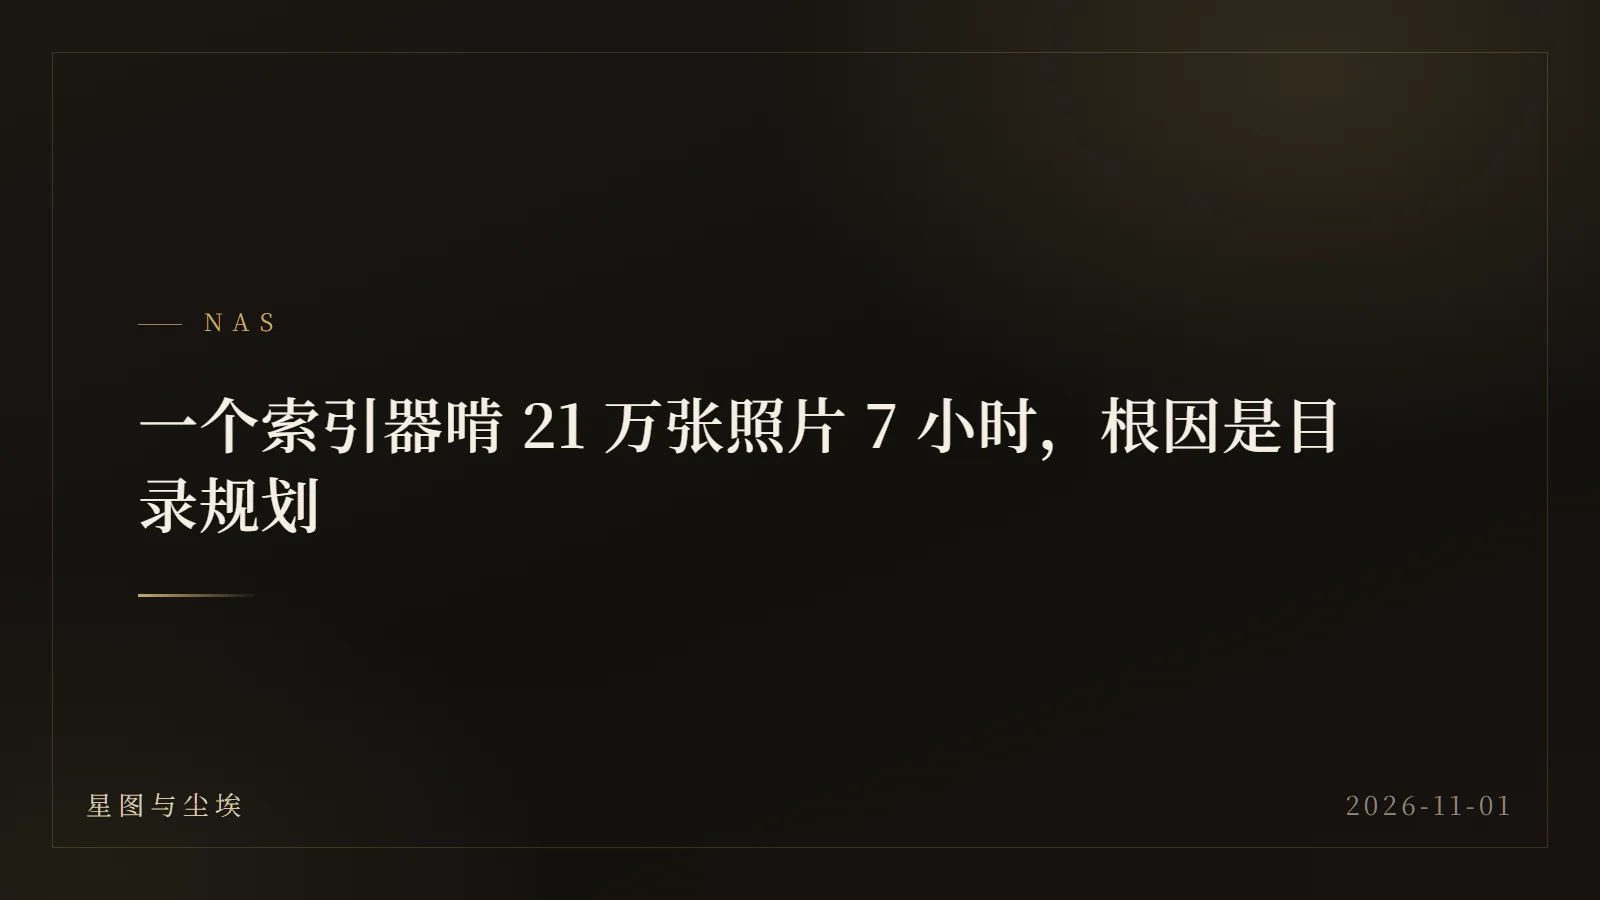
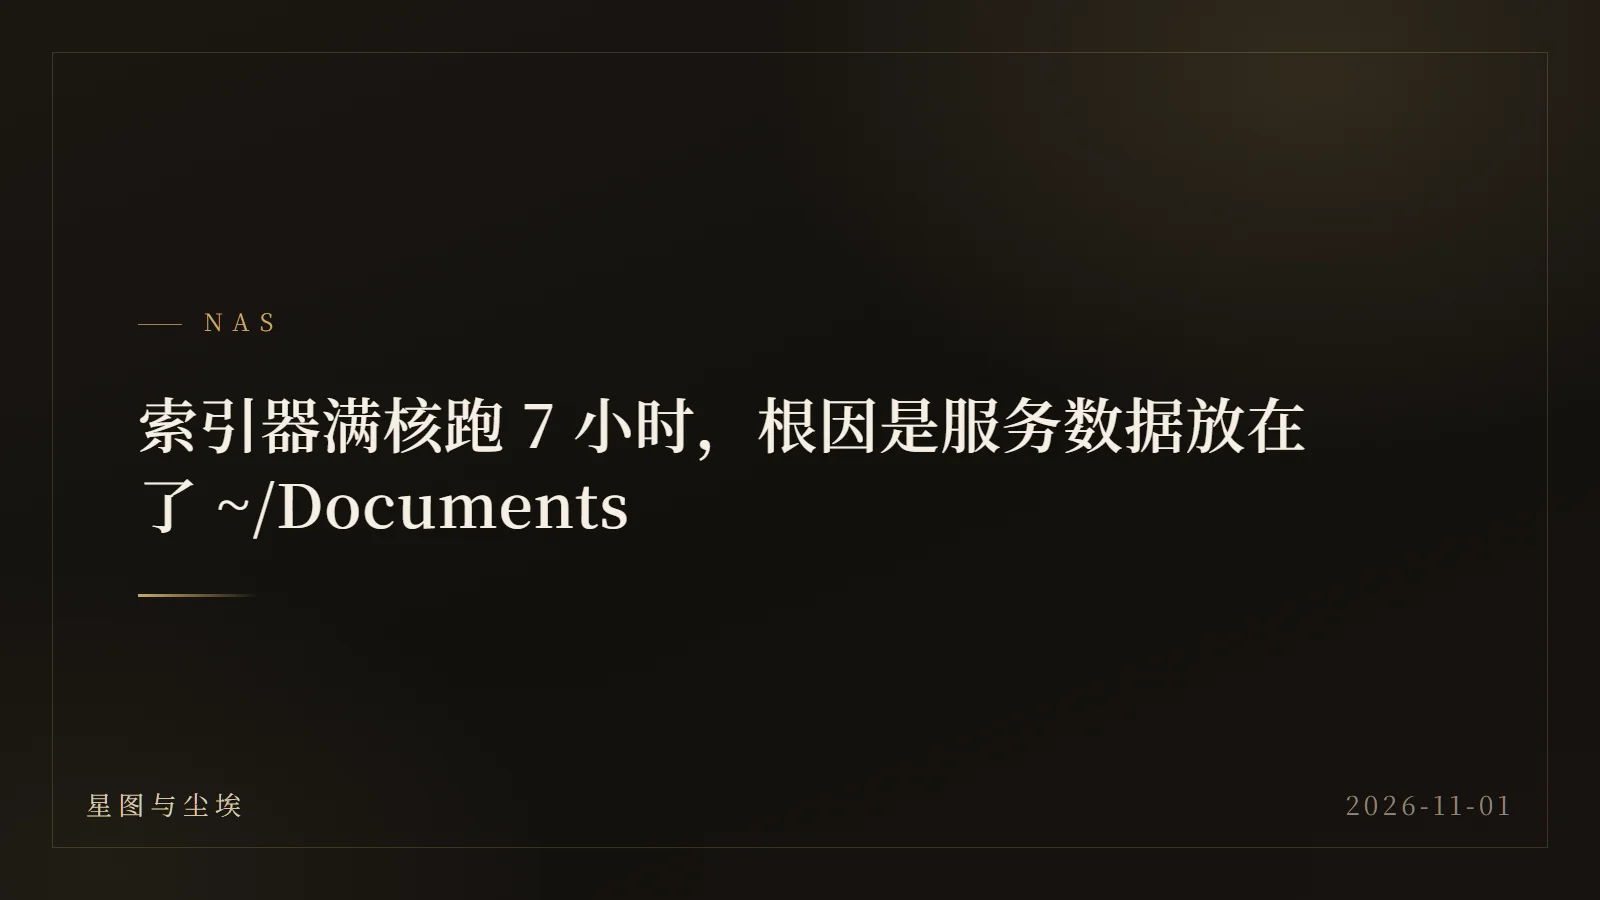
content: nas-tracker 去除数据规模数字并改用结论式标题

Changed region(s): [[0.0938, 0.4356, 0.8438, 0.5911]]

diff --git a/content/posts/life/nas-tracker/index.md b/content/posts/life/nas-tracker/index.md
@@ -1,5 +1,5 @@
 +++
-title = '一个索引器啃 21 万张照片 7 小时，根因是目录规划'
+title = '索引器满核跑 7 小时，根因是服务数据放在了 ~/Documents'
 subtitle = "风扇高速转、四核 76℃ 的背后：GNOME 索引器在反复重试大量提取失败的图片"
 date = 2026-11-01T03:00:00+08:00
 draft = false
@@ -38,9 +38,9 @@ Could not get any metadata for uri:'file:///home/zhenda/Documents/ds_ws/
 immich-app/library/upload/.../e010306c-....JPG' and mime:'image/jpeg'
 ```
 
-一共 **一千五百余条**。
+这条记录反复刷屏，从头到尾没有停过。
 
-原因很清楚：`~/Documents/ds_ws/immich-app/library` 里是二十余万张照片。索引器在提取图片元数据，大量文件提取失败，它就会反复重试，永远出不来。
+原因很清楚：`~/Documents/ds_ws/immich-app/library` 是一个体积庞大的照片库。索引器在提取图片元数据，大量文件提取失败，它就会反复重试，永远出不来。
 
 ## 根因：服务数据放在 ~/Documents 下
 
